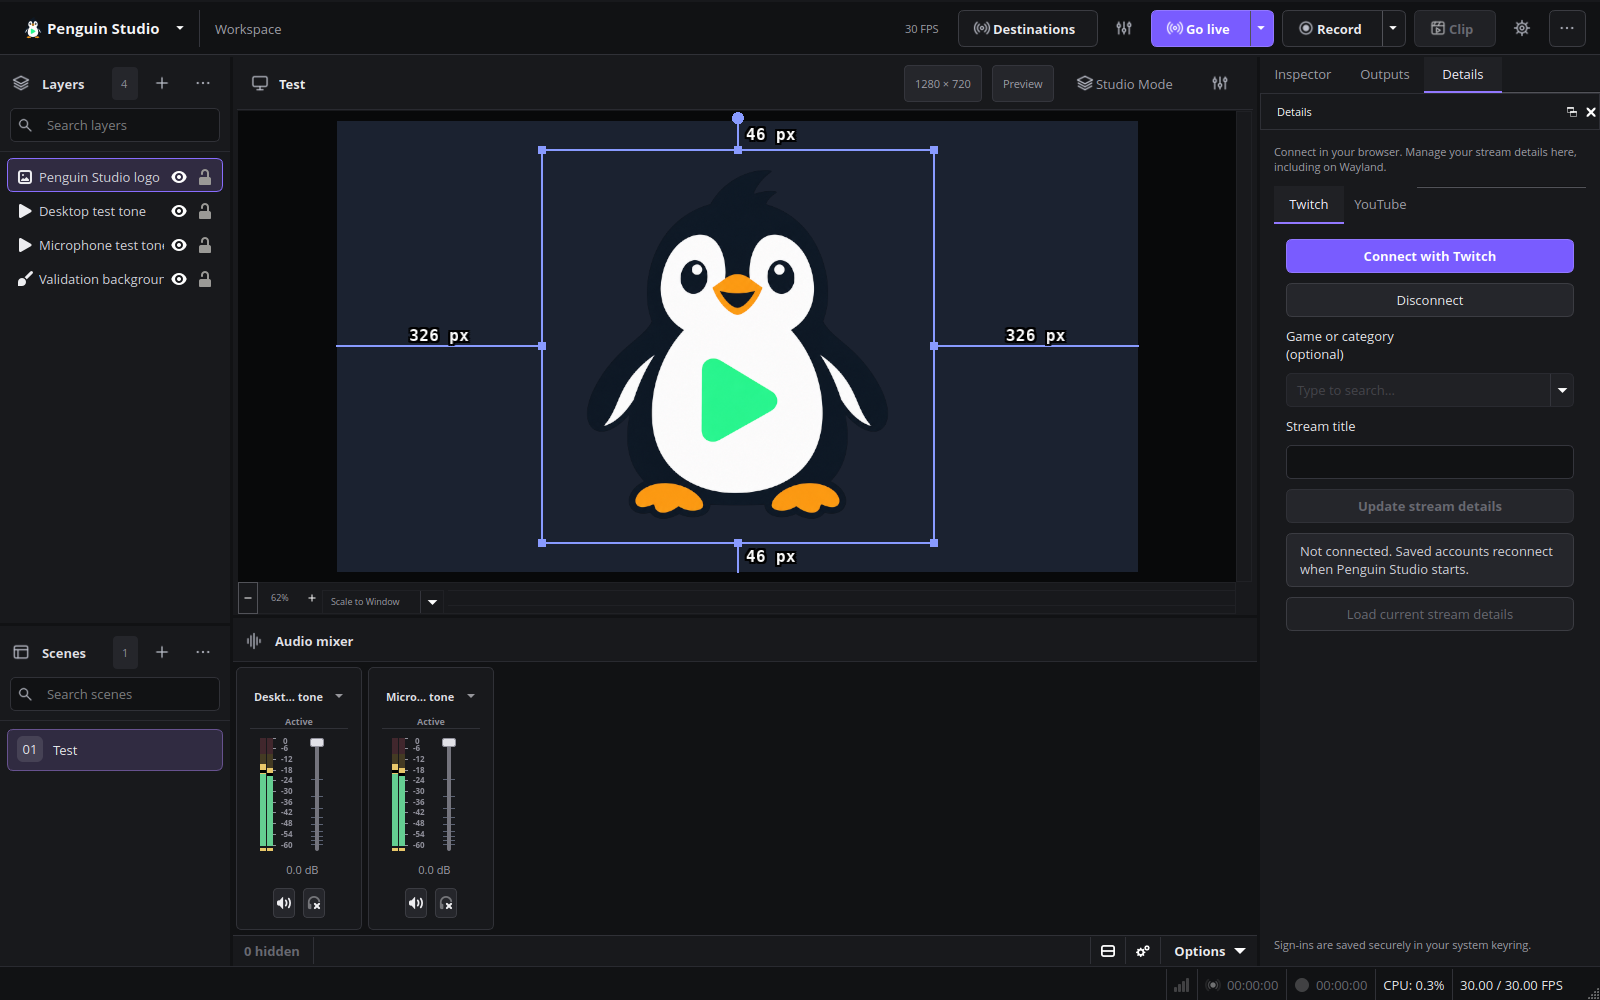
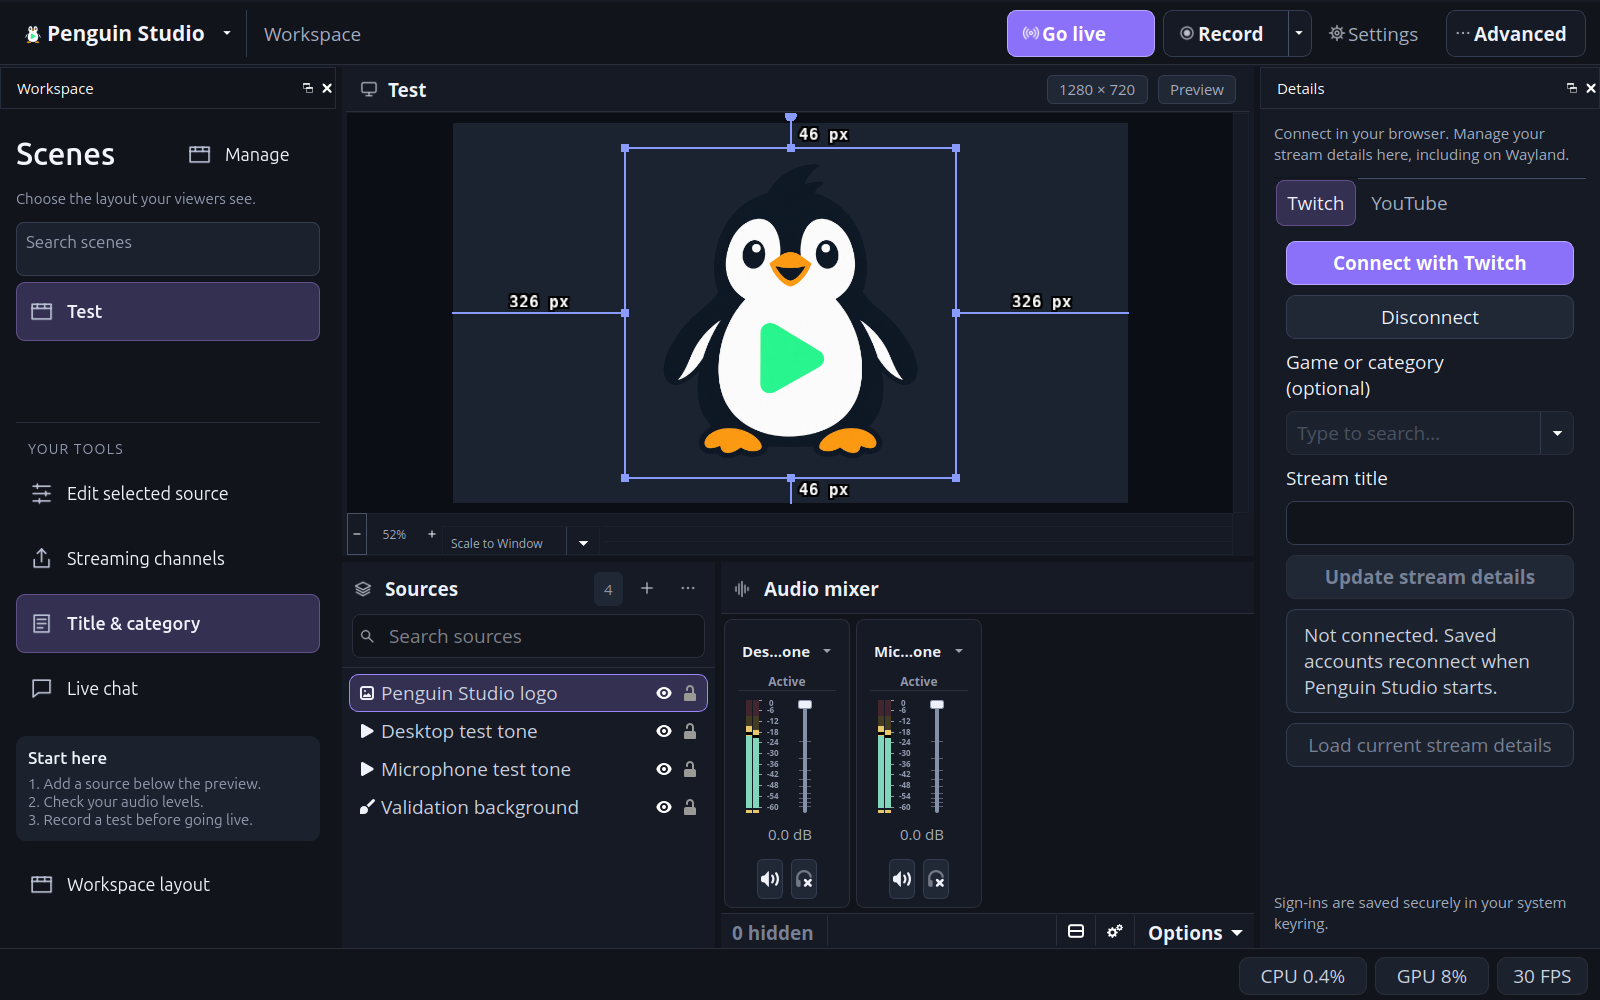
Refresh English 0.7.2 package previews and record local validation

diff --git a/README.md b/README.md
@@ -17,13 +17,13 @@ Penguin Studio brings a redesigned production workspace, native multi-destinatio
 
 ![Penguin Studio modern workspace with searchable layers and scenes, audio channel strips and an integrated inspector](docs/images/current/workspace-en.png)
 
-These English previews show the previous 0.7.1 interface. Reviewed 0.7.2 captures are pending before publication. See the [workspace guide](docs/WORKSPACE.md) for the controls and layout.
+These English previews show the real 0.7.2 candidate package with synthetic demo media. See the [workspace guide](docs/WORKSPACE.md) for the controls and layout.
 
 > Development preview. See [verification status](docs/VERIFICATION.md) for completed checks and remaining release tests, and [packaging](docs/PACKAGING.md) for development downloads and supported build targets. Validate your devices and streaming accounts before relying on this build for a live show.
 
 ## What is included
 
-- A native production workspace with searchable layers and numbered scenes on the left, canvas in the center, a channel-strip audio mixer below, and tabbed inspector/output/details tools on the right. The top bar brings together destinations, live output, recording and replay clips.
+- A simplified Qt Quick workspace with searchable scenes, a central canvas, sources and audio below, and direct navigation to source editing, streaming channels, title/category and live chat. The top bar keeps Go live and Record prominent; Advanced groups less frequently used tools.
 - An editable inspector for source position, size, rotation, crop, visibility and locking, with undo/redo, source properties and filters. See the [workspace guide](docs/WORKSPACE.md).
 - [Camera appearance](docs/CAMERA-EFFECTS.md): circle, oval and rounded-corner shapes, automatic local AI background removal, background blur, custom images, optional moving-hand preservation, and green/blue screen options with adjustable thresholds.
 - Original Penguin Studio logo, a complete dark control theme, English defaults and a separate `PenguinStudio` configuration directory.
@@ -47,15 +47,15 @@ Camera processing offers **Automatic**, **GPU** and **CPU**, with automatic CPU 
 1. Install the Penguin Studio package for your system following the [installation guide](docs/PACKAGING.md).
 2. Launch `penguin-studio`. Finish the hardware configuration and destination assistants. Twitch and YouTube sign-in is optional during setup.
 3. Choose a platform, copy its RTMP(S) server and stream key from its creator dashboard, and choose landscape or portrait output.
-4. Use **Destinations** to add further destinations. **Go live** starts all configured Penguin destinations; **End stream** stops them. The live button's menu also exposes OBS's separate primary stream action.
-5. Open the arrow menu beside **Go live**, then choose **Stream details** to connect Twitch or YouTube for title updates. Official packages include the application configuration for browser sign-in with both providers; you do not need to enter client IDs. Use the searchable Twitch game and YouTube category lists, and **Docks → Stream chat** for native chat and moderation. See the [chat guide](docs/CHAT.md). See [platform setup](docs/PLATFORMS.md).
+4. Use **Streaming channels** to add further destinations. **Go live** starts all configured Penguin destinations; **End stream** stops them. **Advanced** retains the separate primary-stream action.
+5. Open **Title & category** to connect Twitch or YouTube for title updates. Official packages include the application configuration for browser sign-in with both providers; you do not need to enter client IDs. Use the searchable Twitch game and YouTube category lists, and **Live chat** for native chat and moderation. See the [chat guide](docs/CHAT.md). See [platform setup](docs/PLATFORMS.md).
 6. Make a private test stream before a public broadcast. Check picture framing, sound, reconnects, CPU/GPU load, dropped frames and total upload bandwidth.
 
 Twitch and YouTube sign-ins are saved in the system keyring and restored after restart when the keyring is available. **Disconnect** removes the saved account. The **Broadcast destinations** dock keeps stream keys in memory for the current session; they must be entered again after restart. Destination names, nonsecret server URLs and encoder choices are saved locally. Never put a stream key into a saved server URL. The separate **Settings → Stream** workflow can persist stream credentials in the local profile.
 
 ## Penguin Studio updates
 
-New Penguin Studio versions are published on our [GitHub Releases page](https://github.com/SigmaCodez/PenguinStudio/releases), with release notes, Linux packages and SHA-256 checksums. Use **Help → Check for updates** to download and install a verified update on supported Ubuntu, Fedora and Flatpak installations. Automatic notifications announce newer versions. Stop all outputs before updating, confirm any system administrator prompt, then restart the app. Locally installed Snap bundles and AppImages require a manual package update. Arch installations use the updated recipe until an AUR listing is available. You can also close Penguin Studio and install the newer package for the same distribution release and format. See the [package guide](docs/PACKAGING.md) for format-specific instructions. Direct downloads do not require a source checkout.
+New Penguin Studio versions are published on our [GitHub Releases page](https://github.com/SigmaCodez/PenguinStudio/releases), with release notes, Linux packages and SHA-256 checksums. Use **Settings → General → Check for updates** to download and install a verified update on supported Ubuntu, Fedora and Flatpak installations. An automatic check at startup announces newer versions when enabled. Stop all outputs before updating, confirm any system administrator prompt, then restart the app. Locally installed Snap bundles and AppImages require a manual package update. Arch installations use the updated recipe until an AUR listing is available. You can also close Penguin Studio and install the newer package for the same distribution release and format. See the [package guide](docs/PACKAGING.md) for format-specific instructions. Direct downloads do not require a source checkout.
 
 Penguin Studio has its own version numbers and release schedule. Our GitHub Actions workflow builds and publishes the Linux packages when a new project version is released. These downloads are development previews; check the release notes and [verification status](docs/VERIFICATION.md) before updating a production setup.
 

diff --git a/docs/validation/workspace-camera-0.7.2.md b/docs/validation/workspace-camera-0.7.2.md
@@ -1,0 +1,64 @@
+# Workspace and camera validation — 0.7.2
+
+## Local candidate, 2026-10-27
+
+The tested desktop is Ubuntu 26.04.1 under Wayland, with an AMD RX 9070 XT.
+Tests use isolated English profiles and synthetic media unless explicitly noted.
+Private Facecam footage is stored outside the repository and is not distributed.
+
+- Native Wayland workspace: 232 assertions passed, including navigation, source
+  controls, settings and recording. The short recording fully decoded and closed
+  cleanly with no reported render/encoder losses or memory leaks.
+- Separate 90-second GPU, CPU and forced CPU-fallback recordings fully decoded:
+  2,700, 2,702 and 2,706 video frames respectively. No reported render/encoder
+  losses; all three stopped and exited cleanly. One late inference tick in each
+  CPU/GPU run reused the previous complete color/mask pair; none occurred during
+  the fallback interval. These counters differ from OBS render/encoder losses.
+- The private five-minute Facecam test produced 9,003 decoded frames. All sampled
+  states used GPU processing without fallback. Five busy inference ticks reused
+  the previous complete pair. There were no reported render/encoder losses or
+  warning/error entries, and shutdown reported zero memory leaks. The user
+  accepted head/hand visibility and fluid movement.
+- Six camera lifecycle phases covered CPU/GPU selection, odd dimensions, removal,
+  blur, custom images, disable/re-enable and destruction. Worker sanitizer tests
+  and bounded failure/fallback tests passed.
+- Status-bar assertions and visual review verified centered, unclipped labels,
+  recording/pause/idle behavior and utilization of the selected RX 9070 XT.
+  GPU utilization describes the whole rendering device, not this app alone.
+- Settings update checks opened above the modal settings dialog and returned
+  correctly. Updater tests covered HTTP failures, checksums, download size,
+  active outputs and exact Ubuntu-release asset selection.
+- Qt Quick software navigation avoids competing with the video graphics context
+  on X11 and Wayland. Camera inference, video rendering and hardware encoding
+  retain their GPU paths. XWayland captures and Wayland workspace tests passed
+  after fixing the competing-context startup failure.
+- Automated Qt Quick navigation/filtering/layout checks passed. Programmatic
+  keyboard focus was not granted by this Wayland session; those focus assertions
+  did not pass. The user previously confirmed Tab, Enter and Escape on the same
+  navigation controls. No new manual keyboard acceptance is claimed here.
+
+## Ubuntu 26.10 userspace
+
+A native build against verified Ubuntu 26.10 base libraries passed encoder,
+updater, output-safety, platform-flow and wizard tests. A synthetic Wayland GPU
+recording decoded 2,700 frames in 90.033 seconds, with no reported render/encoder
+losses, no additional busy inference ticks and clean shutdown. Ten status-bar
+checks also passed. This uses the host's kernel and Wayland compositor with
+26.10 userspace; it is not a separately booted 26.10 desktop certification.
+The local user-namespace installation could not complete system-account ownership
+changes; clean package installation remains a CI release gate.
+
+## Public previews
+
+The three English product images were captured from the extracted
+`0.7.2-0+ubuntu26.04.candidate1` DEB, not redrawn or recolored. Their exact package
+hash, source commit and image hashes are recorded in
+[the current manifest](../images/current/manifest.json). All three were visually
+inspected. They contain synthetic artwork/audio and disconnected account panels.
+
+## Remaining release gates
+
+Complete all Linux package builds and their installation/runtime checks, test the
+final Ubuntu packages, publish only the complete verified set, and install the
+final Ubuntu 26.04 packages using the normal administrator confirmation. This
+record must be updated with the final CI run and installation outcome.

diff --git a/docs/WORKSPACE.md b/docs/WORKSPACE.md
@@ -4,7 +4,7 @@ Penguin Studio combines Qt Quick navigation with native Qt source controls, a la
 
 ![Penguin Studio workspace in English](images/current/workspace-en.png)
 
-Current previews are being refreshed for the 0.7.2 candidate before publication. All published previews use an isolated English profile and synthetic media.
+The previews show the real 0.7.2 candidate package using an isolated English profile and synthetic media.
 
 ## Start a session
 
@@ -21,7 +21,7 @@ Current previews are being refreshed for the 0.7.2 candidate before publication.
 - **Settings** opens searchable settings navigation. Forms retain their native validation and save/cancel behavior.
 - **Go live** starts configured destinations through their validated controller. With no destinations configured, it opens setup. **End stream** stops those outputs.
 - **Record** starts the recording controller. Its menu offers pause/resume when supported by the recording mode.
-- **Clip** saves the active replay buffer. Configure and start the replay buffer before saving clips.
+- **Advanced → Save replay clip** saves the active replay buffer. Configure and start the replay buffer before saving clips.
 - **Advanced** groups replay-buffer, virtual-camera, studio-mode and other advanced controls, including the separate primary-stream action. Its credentials remain separate from Penguin destinations.
 
 The bottom status bar shows active recording/live timers, CPU usage and frame rate. Supported Linux drivers also supply utilization of the GPU rendering the workspace. This is whole-device load; a dash means unavailable data, not zero utilization. Inactive timers stay hidden and recording pause is explicit.

diff --git a/docs/VERIFICATION.md b/docs/VERIFICATION.md
@@ -5,6 +5,8 @@
 > product previews. For the current English GUI, see the [workspace guide](WORKSPACE.md)
 > and [preview provenance](images/current/manifest.json).
 
+Version 0.7.2 adds the reviewed Qt Quick workspace, asynchronous camera processing and native Ubuntu 26.10 packages. See the [release validation record](validation/workspace-camera-0.7.2.md) for the completed local checks and outstanding package gates.
+
 Version 0.7.1 harmonizes the interface on the OBS 33.0.0 foundation. See the [design validation record](validation/design-consistency-0.7.1.md) for package-level layout, recording and shutdown checks.
 
 Version 0.7.0 is based on OBS Studio 33.0.0. Its [integration record](validation/obs33-integration.md) separates new engine tests from historical results. All seven candidate package targets and the AMD add-on migration checks passed; historical results alone are not used to validate this major update.
